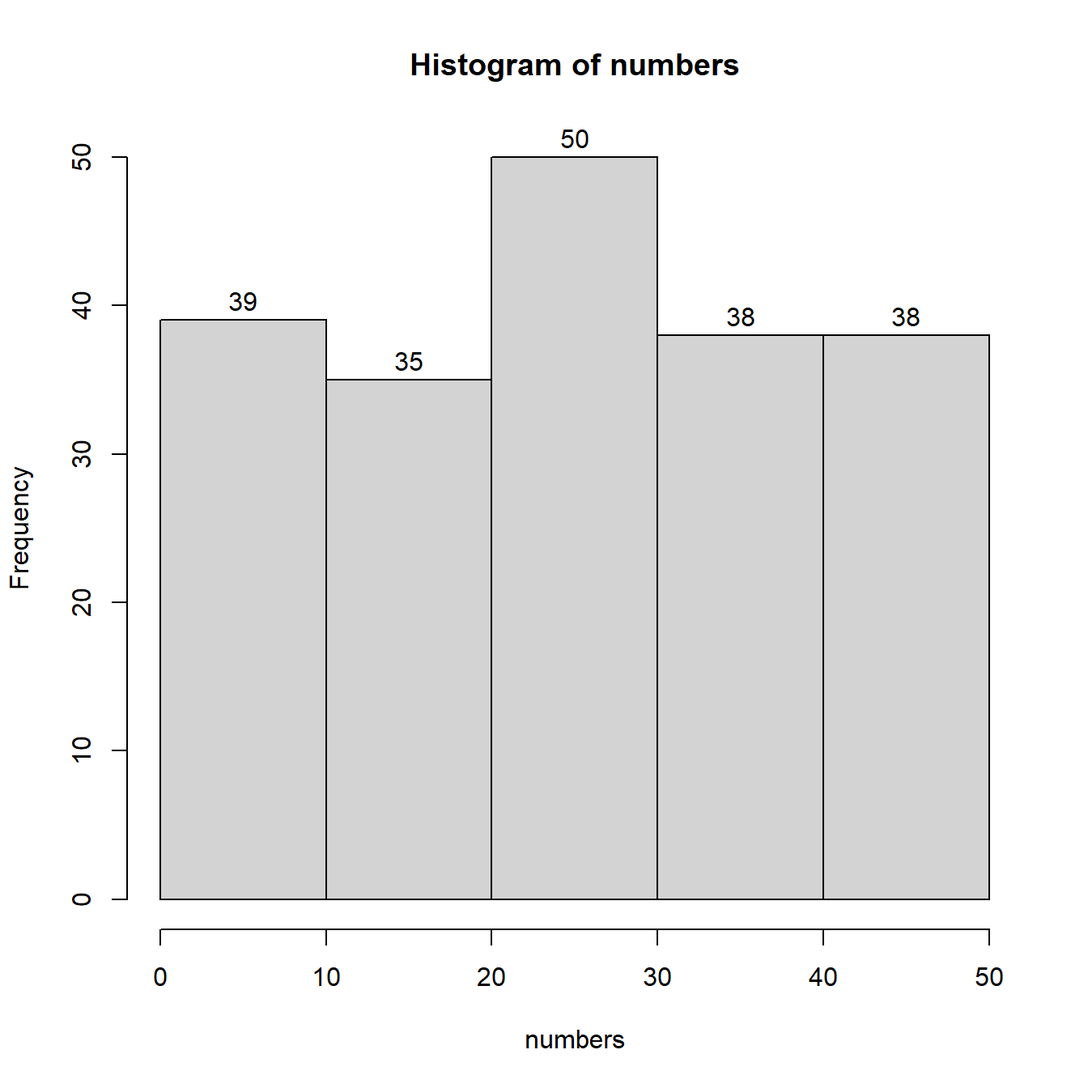
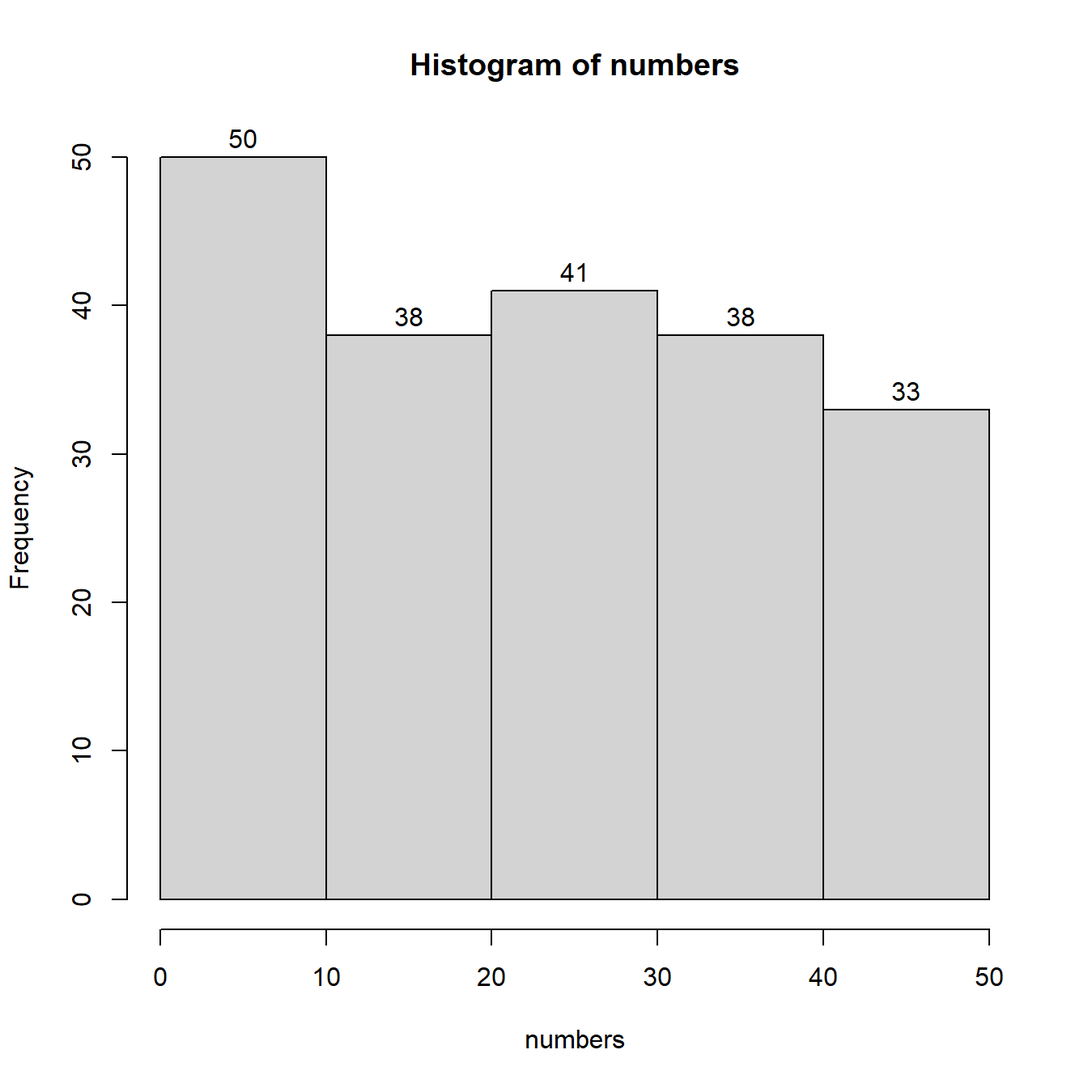
week 8

Changed region(s): [[0.125, 0.125, 0.4688, 0.375], [0.4375, 0.125, 0.625, 0.2812], [0.75, 0.2812, 0.9375, 0.375]]

diff --git a/docs/Week7.html b/docs/Week7.html
@@ -32,7 +32,7 @@
   
   
 <link rel="prev" href="Week6.html"/>
-
+<link rel="next" href="Week8.html"/>
 <script src="libs/header-attrs-2.4/header-attrs.js"></script>
 <script src="libs/jquery-2.2.3/jquery.min.js"></script>
 <link href="libs/gitbook-2.6.7/css/style.css" rel="stylesheet" />
@@ -193,6 +193,11 @@ code span.wa { color: #60a0b0; font-weight: bold; font-style: italic; } /* Warni
 <li class="chapter" data-level="7.5" data-path="Week7.html"><a href="Week7.html#creating-a-new-dataset-and-executing-all-correlations-at-once"><i class="fa fa-check"></i><b>7.5</b> Creating a new dataset and executing all correlations at once</a></li>
 <li class="chapter" data-level="7.6" data-path="Week7.html"><a href="Week7.html#exercise-6"><i class="fa fa-check"></i><b>7.6</b> Exercise</a></li>
 </ul></li>
+<li class="chapter" data-level="8" data-path="Week8.html"><a href="Week8.html"><i class="fa fa-check"></i><b>8</b> Lab Session 6</a>
+<ul>
+<li class="chapter" data-level="8.1" data-path="Week8.html"><a href="Week8.html#learning-objectives-5"><i class="fa fa-check"></i><b>8.1</b> Learning Objectives</a></li>
+<li class="chapter" data-level="8.2" data-path="Week8.html"><a href="Week8.html#to-start-with"><i class="fa fa-check"></i><b>8.2</b> To start with</a></li>
+</ul></li>
 <li class="divider"></li>
 <li><a href="https://github.com/rstudio/bookdown" target="blank">Published with bookdown</a></li>
 
@@ -223,9 +228,9 @@ code span.wa { color: #60a0b0; font-weight: bold; font-style: italic; } /* Warni
 3. Go on moodle on the SP300 page, in Week 6. In the lab section there are two files, <strong>internet.csv</strong> and <strong>exercisew7.csv</strong>. Download both files and save them or copy them in your <strong>Week 7 Lab</strong> folder that is on your desktop. <strong>IF YOU ARE A MAC USER PLEASE USE CHROME AND NOT SAFARI.</strong><br />
 4. If you have done everything right, you should be able to see both files at the mottom right window in your RStudio, if the tab <strong>Files</strong>.<br />
 5. Create a new script and save it as <strong>week7</strong>. Then type in the following commands and run them.</p>
-<div class="sourceCode" id="cb1"><pre class="sourceCode r"><code class="sourceCode r"><span id="cb1-1"><a href="Week7.html#cb1-1"></a><span class="kw">library</span>(tidyverse)</span>
-<span id="cb1-2"><a href="Week7.html#cb1-2"></a><span class="kw">library</span>(correlation)</span>
-<span id="cb1-3"><a href="Week7.html#cb1-3"></a><span class="kw">library</span>(ggpubr)</span></code></pre></div>
+<div class="sourceCode" id="cb55"><pre class="sourceCode r"><code class="sourceCode r"><span id="cb55-1"><a href="Week7.html#cb55-1"></a><span class="kw">library</span>(tidyverse)</span>
+<span id="cb55-2"><a href="Week7.html#cb55-2"></a><span class="kw">library</span>(correlation)</span>
+<span id="cb55-3"><a href="Week7.html#cb55-3"></a><span class="kw">library</span>(ggpubr)</span></code></pre></div>
 <ol start="6" style="list-style-type: decimal">
 <li>If you get any <strong>warning messages</strong> that is fine.<br />
 </li>
@@ -253,11 +258,11 @@ code span.wa { color: #60a0b0; font-weight: bold; font-style: italic; } /* Warni
 <div id="load-our-own-data" class="section level2" number="7.3">
 <h2><span class="header-section-number">7.3</span> Load our own data</h2>
 <p>If you have already followed the steps above you should already have two data files in your folder. These are <strong>internet.csv</strong> and <strong>exercisew7.csv</strong>. We will execute the following script to load <strong>internet.csv</strong> and also get some useful initial summaries. The <strong>internet.csv</strong> contains data from a sudy that measured participants Internet use. If you have already created the <strong>week7 lab</strong> script above then just continue working from there. If not make sure you add the three lines above that contain the libraries.</p>
-<div class="sourceCode" id="cb2"><pre class="sourceCode r"><code class="sourceCode r"><span id="cb2-1"><a href="Week7.html#cb2-1"></a><span class="co">## load the file internet.csv and assign to a dataframe called df</span></span>
-<span id="cb2-2"><a href="Week7.html#cb2-2"></a>df &lt;-<span class="st"> </span><span class="kw">read_csv</span>(<span class="st">&quot;internet.csv&quot;</span>)</span>
-<span id="cb2-3"><a href="Week7.html#cb2-3"></a></span>
-<span id="cb2-4"><a href="Week7.html#cb2-4"></a><span class="co">## Let&#39;s have a quick look at our variables in df</span></span>
-<span id="cb2-5"><a href="Week7.html#cb2-5"></a><span class="kw">summary</span>(df)</span></code></pre></div>
+<div class="sourceCode" id="cb56"><pre class="sourceCode r"><code class="sourceCode r"><span id="cb56-1"><a href="Week7.html#cb56-1"></a><span class="co">## load the file internet.csv and assign to a dataframe called df</span></span>
+<span id="cb56-2"><a href="Week7.html#cb56-2"></a>df &lt;-<span class="st"> </span><span class="kw">read_csv</span>(<span class="st">&quot;internet.csv&quot;</span>)</span>
+<span id="cb56-3"><a href="Week7.html#cb56-3"></a></span>
+<span id="cb56-4"><a href="Week7.html#cb56-4"></a><span class="co">## Let&#39;s have a quick look at our variables in df</span></span>
+<span id="cb56-5"><a href="Week7.html#cb56-5"></a><span class="kw">summary</span>(df)</span></code></pre></div>
 </div>
 <div id="working-with-our-data" class="section level2" number="7.4">
 <h2><span class="header-section-number">7.4</span> Working with our data</h2>
@@ -268,54 +273,54 @@ code span.wa { color: #60a0b0; font-weight: bold; font-style: italic; } /* Warni
 <strong>comf_mean</strong>: mean of comfort1 and comfort2 for each participant.
 <strong>total_hr</strong>: the total amount of hours in a week
 We can achieve the above with many different ways, for this term we will focus on using the function <strong>mutate()</strong>.</p>
-<div class="sourceCode" id="cb3"><pre class="sourceCode r"><code class="sourceCode r"><span id="cb3-1"><a href="Week7.html#cb3-1"></a><span class="co">## when using mutate, we have to declare the dataframe first</span></span>
-<span id="cb3-2"><a href="Week7.html#cb3-2"></a><span class="co">## then give the name of the new variable</span></span>
-<span id="cb3-3"><a href="Week7.html#cb3-3"></a><span class="co">## and then type in the calculation we want to do</span></span>
-<span id="cb3-4"><a href="Week7.html#cb3-4"></a><span class="co">## the mean is nothing else than adding all variables</span></span>
-<span id="cb3-5"><a href="Week7.html#cb3-5"></a><span class="co">## and then dividing by the number of variables</span></span>
-<span id="cb3-6"><a href="Week7.html#cb3-6"></a><span class="co">## </span><span class="al">NOTE</span><span class="co">: you do not have to breat the mutate line in two lines</span></span>
-<span id="cb3-7"><a href="Week7.html#cb3-7"></a><span class="co">## like below, we did that so it fits in the pdf width</span></span>
-<span id="cb3-8"><a href="Week7.html#cb3-8"></a></span>
-<span id="cb3-9"><a href="Week7.html#cb3-9"></a>df &lt;-<span class="st"> </span><span class="kw">mutate</span>(df, </span>
-<span id="cb3-10"><a href="Week7.html#cb3-10"></a>             <span class="dt">use_mean =</span> (use1 <span class="op">+</span><span class="st"> </span>use2 <span class="op">+</span><span class="st"> </span>use3 <span class="op">+</span><span class="st"> </span>use4 <span class="op">+</span><span class="st"> </span>use5 <span class="op">+</span><span class="st"> </span>use6)<span class="op">/</span><span class="dv">6</span>)</span>
-<span id="cb3-11"><a href="Week7.html#cb3-11"></a></span>
-<span id="cb3-12"><a href="Week7.html#cb3-12"></a></span>
-<span id="cb3-13"><a href="Week7.html#cb3-13"></a>df &lt;-<span class="st"> </span><span class="kw">mutate</span>(df, </span>
-<span id="cb3-14"><a href="Week7.html#cb3-14"></a>             <span class="dt">pre_mean =</span> (pre1 <span class="op">+</span><span class="st"> </span>pre2 <span class="op">+</span><span class="st"> </span>pre3 <span class="op">+</span><span class="st"> </span>pre4 <span class="op">+</span><span class="st"> </span>pre5 <span class="op">+</span><span class="st"> </span>pre6)<span class="op">/</span><span class="dv">6</span>)</span>
-<span id="cb3-15"><a href="Week7.html#cb3-15"></a></span>
-<span id="cb3-16"><a href="Week7.html#cb3-16"></a></span>
-<span id="cb3-17"><a href="Week7.html#cb3-17"></a>df &lt;-<span class="st"> </span><span class="kw">mutate</span>(df, </span>
-<span id="cb3-18"><a href="Week7.html#cb3-18"></a>             <span class="dt">comf_mean =</span> (comfort1 <span class="op">+</span><span class="st"> </span>comfort2)<span class="op">/</span><span class="dv">2</span>)</span>
-<span id="cb3-19"><a href="Week7.html#cb3-19"></a></span>
-<span id="cb3-20"><a href="Week7.html#cb3-20"></a><span class="co">## we can also do any other type of arithmetic calculation</span></span>
-<span id="cb3-21"><a href="Week7.html#cb3-21"></a><span class="co">## for example total_hr = days * hours</span></span>
-<span id="cb3-22"><a href="Week7.html#cb3-22"></a>df &lt;-<span class="st"> </span><span class="kw">mutate</span>(df, </span>
-<span id="cb3-23"><a href="Week7.html#cb3-23"></a>             <span class="dt">total_hr =</span> days<span class="op">*</span>hours)</span></code></pre></div>
+<div class="sourceCode" id="cb57"><pre class="sourceCode r"><code class="sourceCode r"><span id="cb57-1"><a href="Week7.html#cb57-1"></a><span class="co">## when using mutate, we have to declare the dataframe first</span></span>
+<span id="cb57-2"><a href="Week7.html#cb57-2"></a><span class="co">## then give the name of the new variable</span></span>
+<span id="cb57-3"><a href="Week7.html#cb57-3"></a><span class="co">## and then type in the calculation we want to do</span></span>
+<span id="cb57-4"><a href="Week7.html#cb57-4"></a><span class="co">## the mean is nothing else than adding all variables</span></span>
+<span id="cb57-5"><a href="Week7.html#cb57-5"></a><span class="co">## and then dividing by the number of variables</span></span>
+<span id="cb57-6"><a href="Week7.html#cb57-6"></a><span class="co">## </span><span class="al">NOTE</span><span class="co">: you do not have to breat the mutate line in two lines</span></span>
+<span id="cb57-7"><a href="Week7.html#cb57-7"></a><span class="co">## like below, we did that so it fits in the pdf width</span></span>
+<span id="cb57-8"><a href="Week7.html#cb57-8"></a></span>
+<span id="cb57-9"><a href="Week7.html#cb57-9"></a>df &lt;-<span class="st"> </span><span class="kw">mutate</span>(df, </span>
+<span id="cb57-10"><a href="Week7.html#cb57-10"></a>             <span class="dt">use_mean =</span> (use1 <span class="op">+</span><span class="st"> </span>use2 <span class="op">+</span><span class="st"> </span>use3 <span class="op">+</span><span class="st"> </span>use4 <span class="op">+</span><span class="st"> </span>use5 <span class="op">+</span><span class="st"> </span>use6)<span class="op">/</span><span class="dv">6</span>)</span>
+<span id="cb57-11"><a href="Week7.html#cb57-11"></a></span>
+<span id="cb57-12"><a href="Week7.html#cb57-12"></a></span>
+<span id="cb57-13"><a href="Week7.html#cb57-13"></a>df &lt;-<span class="st"> </span><span class="kw">mutate</span>(df, </span>
+<span id="cb57-14"><a href="Week7.html#cb57-14"></a>             <span class="dt">pre_mean =</span> (pre1 <span class="op">+</span><span class="st"> </span>pre2 <span class="op">+</span><span class="st"> </span>pre3 <span class="op">+</span><span class="st"> </span>pre4 <span class="op">+</span><span class="st"> </span>pre5 <span class="op">+</span><span class="st"> </span>pre6)<span class="op">/</span><span class="dv">6</span>)</span>
+<span id="cb57-15"><a href="Week7.html#cb57-15"></a></span>
+<span id="cb57-16"><a href="Week7.html#cb57-16"></a></span>
+<span id="cb57-17"><a href="Week7.html#cb57-17"></a>df &lt;-<span class="st"> </span><span class="kw">mutate</span>(df, </span>
+<span id="cb57-18"><a href="Week7.html#cb57-18"></a>             <span class="dt">comf_mean =</span> (comfort1 <span class="op">+</span><span class="st"> </span>comfort2)<span class="op">/</span><span class="dv">2</span>)</span>
+<span id="cb57-19"><a href="Week7.html#cb57-19"></a></span>
+<span id="cb57-20"><a href="Week7.html#cb57-20"></a><span class="co">## we can also do any other type of arithmetic calculation</span></span>
+<span id="cb57-21"><a href="Week7.html#cb57-21"></a><span class="co">## for example total_hr = days * hours</span></span>
+<span id="cb57-22"><a href="Week7.html#cb57-22"></a>df &lt;-<span class="st"> </span><span class="kw">mutate</span>(df, </span>
+<span id="cb57-23"><a href="Week7.html#cb57-23"></a>             <span class="dt">total_hr =</span> days<span class="op">*</span>hours)</span></code></pre></div>
 <p>We can now create simple scatterplots between between our newly created variables. Below, we only give you only one example but try to complete the rest on your own. We can also carry out a correlation analysis between two variables. Again, we give you only one example, you should do the rest on your own during the lab session.</p>
-<div class="sourceCode" id="cb4"><pre class="sourceCode r"><code class="sourceCode r"><span id="cb4-1"><a href="Week7.html#cb4-1"></a><span class="co">## a simple scatterplot between use_mean and pre_mean</span></span>
-<span id="cb4-2"><a href="Week7.html#cb4-2"></a><span class="kw">ggscatter</span>(df, <span class="dt">x =</span> <span class="st">&quot;use_mean&quot;</span>, <span class="dt">y =</span> <span class="st">&quot;pre_mean&quot;</span>)</span>
-<span id="cb4-3"><a href="Week7.html#cb4-3"></a></span>
-<span id="cb4-4"><a href="Week7.html#cb4-4"></a><span class="co">## a simple correlation analysis between </span></span>
-<span id="cb4-5"><a href="Week7.html#cb4-5"></a><span class="kw">cor_test</span>(<span class="dt">data =</span> df, </span>
-<span id="cb4-6"><a href="Week7.html#cb4-6"></a>         <span class="dt">x =</span> <span class="st">&quot;use_mean&quot;</span>, <span class="dt">y =</span> <span class="st">&quot;pre_mean&quot;</span>, <span class="dt">method =</span> <span class="st">&quot;pearson&quot;</span>)</span>
-<span id="cb4-7"><a href="Week7.html#cb4-7"></a></span>
-<span id="cb4-8"><a href="Week7.html#cb4-8"></a><span class="co">## change the code as needed to see output for different pairs of </span></span>
-<span id="cb4-9"><a href="Week7.html#cb4-9"></a><span class="co">## variables. You should have all pairs of Use_mean, pre_mean, comf_mean, ##  and total_hr</span></span></code></pre></div>
+<div class="sourceCode" id="cb58"><pre class="sourceCode r"><code class="sourceCode r"><span id="cb58-1"><a href="Week7.html#cb58-1"></a><span class="co">## a simple scatterplot between use_mean and pre_mean</span></span>
+<span id="cb58-2"><a href="Week7.html#cb58-2"></a><span class="kw">ggscatter</span>(df, <span class="dt">x =</span> <span class="st">&quot;use_mean&quot;</span>, <span class="dt">y =</span> <span class="st">&quot;pre_mean&quot;</span>)</span>
+<span id="cb58-3"><a href="Week7.html#cb58-3"></a></span>
+<span id="cb58-4"><a href="Week7.html#cb58-4"></a><span class="co">## a simple correlation analysis between </span></span>
+<span id="cb58-5"><a href="Week7.html#cb58-5"></a><span class="kw">cor_test</span>(<span class="dt">data =</span> df, </span>
+<span id="cb58-6"><a href="Week7.html#cb58-6"></a>         <span class="dt">x =</span> <span class="st">&quot;use_mean&quot;</span>, <span class="dt">y =</span> <span class="st">&quot;pre_mean&quot;</span>, <span class="dt">method =</span> <span class="st">&quot;pearson&quot;</span>)</span>
+<span id="cb58-7"><a href="Week7.html#cb58-7"></a></span>
+<span id="cb58-8"><a href="Week7.html#cb58-8"></a><span class="co">## change the code as needed to see output for different pairs of </span></span>
+<span id="cb58-9"><a href="Week7.html#cb58-9"></a><span class="co">## variables. You should have all pairs of Use_mean, pre_mean, comf_mean, ##  and total_hr</span></span></code></pre></div>
 </div>
 <div id="creating-a-new-dataset-and-executing-all-correlations-at-once" class="section level2" number="7.5">
 <h2><span class="header-section-number">7.5</span> Creating a new dataset and executing all correlations at once</h2>
 <p>As you have seen above it is quite a lot of work to keep typing the same code for each pair of variables. One way to overcome this is to use the function, correlation(). This function, takes as an input our entire dataframe and runs correlations for all the existing variables. The problem with this approach is that our dataframe may also have variables that we do not want to include. An easy way to fix this would be to create a new dataframe that only contains the variables we need. Then run correlation on the new dataframe. We can do that by using the function select() and declare the variables we want to copy to the new dataframe.</p>
-<div class="sourceCode" id="cb5"><pre class="sourceCode r"><code class="sourceCode r"><span id="cb5-1"><a href="Week7.html#cb5-1"></a><span class="co">## first we declate that our dataframe is df</span></span>
-<span id="cb5-2"><a href="Week7.html#cb5-2"></a><span class="co">## then we declare the variables we want to copy over</span></span>
-<span id="cb5-3"><a href="Week7.html#cb5-3"></a><span class="co">## to the new dataframe which we can give any name we want.</span></span>
-<span id="cb5-4"><a href="Week7.html#cb5-4"></a>df2 &lt;-<span class="st"> </span><span class="kw">select</span>(df, use_mean, pre_mean, comf_mean, total_hr)</span>
-<span id="cb5-5"><a href="Week7.html#cb5-5"></a></span>
-<span id="cb5-6"><a href="Week7.html#cb5-6"></a><span class="kw">summary</span>(df2)</span></code></pre></div>
+<div class="sourceCode" id="cb59"><pre class="sourceCode r"><code class="sourceCode r"><span id="cb59-1"><a href="Week7.html#cb59-1"></a><span class="co">## first we declate that our dataframe is df</span></span>
+<span id="cb59-2"><a href="Week7.html#cb59-2"></a><span class="co">## then we declare the variables we want to copy over</span></span>
+<span id="cb59-3"><a href="Week7.html#cb59-3"></a><span class="co">## to the new dataframe which we can give any name we want.</span></span>
+<span id="cb59-4"><a href="Week7.html#cb59-4"></a>df2 &lt;-<span class="st"> </span><span class="kw">select</span>(df, use_mean, pre_mean, comf_mean, total_hr)</span>
+<span id="cb59-5"><a href="Week7.html#cb59-5"></a></span>
+<span id="cb59-6"><a href="Week7.html#cb59-6"></a><span class="kw">summary</span>(df2)</span></code></pre></div>
 <p>Running the above code would create a new dataframe called **df2*. We can now run all the correlations between our four variables.</p>
-<div class="sourceCode" id="cb6"><pre class="sourceCode r"><code class="sourceCode r"><span id="cb6-1"><a href="Week7.html#cb6-1"></a><span class="co">## all we have to do is declare the dataframe name</span></span>
-<span id="cb6-2"><a href="Week7.html#cb6-2"></a><span class="co">## in the correlation function</span></span>
-<span id="cb6-3"><a href="Week7.html#cb6-3"></a></span>
-<span id="cb6-4"><a href="Week7.html#cb6-4"></a><span class="kw">correlation</span>(<span class="dt">data =</span> df2, <span class="dt">method =</span> <span class="st">&quot;pearson&quot;</span>)</span></code></pre></div>
+<div class="sourceCode" id="cb60"><pre class="sourceCode r"><code class="sourceCode r"><span id="cb60-1"><a href="Week7.html#cb60-1"></a><span class="co">## all we have to do is declare the dataframe name</span></span>
+<span id="cb60-2"><a href="Week7.html#cb60-2"></a><span class="co">## in the correlation function</span></span>
+<span id="cb60-3"><a href="Week7.html#cb60-3"></a></span>
+<span id="cb60-4"><a href="Week7.html#cb60-4"></a><span class="kw">correlation</span>(<span class="dt">data =</span> df2, <span class="dt">method =</span> <span class="st">&quot;pearson&quot;</span>)</span></code></pre></div>
 <p>If you observe the output you will see that we have a row for each pair of variables.</p>
 </div>
 <div id="exercise-6" class="section level2" number="7.6">
@@ -340,8 +345,8 @@ Also, create a new datafile that will only include these four variables and run 
           </div>
         </div>
       </div>
-<a href="Week6.html" class="navigation navigation-prev navigation-unique" aria-label="Previous page"><i class="fa fa-angle-left"></i></a>
-
+<a href="Week6.html" class="navigation navigation-prev " aria-label="Previous page"><i class="fa fa-angle-left"></i></a>
+<a href="Week8.html" class="navigation navigation-next " aria-label="Next page"><i class="fa fa-angle-right"></i></a>
     </div>
   </div>
 <script src="libs/gitbook-2.6.7/js/app.min.js"></script>

diff --git a/docs/Week3.html b/docs/Week3.html
@@ -193,6 +193,11 @@ code span.wa { color: #60a0b0; font-weight: bold; font-style: italic; } /* Warni
 <li class="chapter" data-level="7.5" data-path="Week7.html"><a href="Week7.html#creating-a-new-dataset-and-executing-all-correlations-at-once"><i class="fa fa-check"></i><b>7.5</b> Creating a new dataset and executing all correlations at once</a></li>
 <li class="chapter" data-level="7.6" data-path="Week7.html"><a href="Week7.html#exercise-6"><i class="fa fa-check"></i><b>7.6</b> Exercise</a></li>
 </ul></li>
+<li class="chapter" data-level="8" data-path="Week8.html"><a href="Week8.html"><i class="fa fa-check"></i><b>8</b> Lab Session 6</a>
+<ul>
+<li class="chapter" data-level="8.1" data-path="Week8.html"><a href="Week8.html#learning-objectives-5"><i class="fa fa-check"></i><b>8.1</b> Learning Objectives</a></li>
+<li class="chapter" data-level="8.2" data-path="Week8.html"><a href="Week8.html#to-start-with"><i class="fa fa-check"></i><b>8.2</b> To start with</a></li>
+</ul></li>
 <li class="divider"></li>
 <li><a href="https://github.com/rstudio/bookdown" target="blank">Published with bookdown</a></li>
 
@@ -282,7 +287,7 @@ code span.wa { color: #60a0b0; font-weight: bold; font-style: italic; } /* Warni
 <span id="cb12-3"><a href="Week3.html#cb12-3"></a>numbers &lt;-<span class="st"> </span><span class="kw">sample.int</span>(<span class="dv">10</span>, <span class="dv">5</span>, <span class="dt">replace =</span> <span class="ot">TRUE</span>)</span>
 <span id="cb12-4"><a href="Week3.html#cb12-4"></a></span>
 <span id="cb12-5"><a href="Week3.html#cb12-5"></a>numbers</span></code></pre></div>
-<p>[1] 3 10 2 6 5</p>
+<p>[1] 10 4 2 8 7</p>
 <p>As mentioned above, I used a function called <strong>sample.int()</strong>. A <strong>function</strong> in R, is a mechanism that can perform a task. In this case our function can select an integer number randomly. A function also includes two brackets (). Within these brackets we can specify our own arguments in order to be clear what we want R to do for us when this function is used.</p>
 <p>Notice the number 10, this <strong>argument</strong> instructs our function that we want to pick randomly a number between 1 and 10.</p>
 <p>Notice the second number 5, this <strong>argument</strong> instructs our function to give 5 such numbers from 1 to 10.</p>
@@ -296,14 +301,14 @@ code span.wa { color: #60a0b0; font-weight: bold; font-style: italic; } /* Warni
 <span id="cb13-3"><a href="Week3.html#cb13-3"></a><span class="co"># See how my arguments have now changed.</span></span>
 <span id="cb13-4"><a href="Week3.html#cb13-4"></a>numbers &lt;-<span class="st"> </span><span class="kw">sample.int</span>(<span class="dv">50</span>, <span class="dv">200</span>, <span class="dt">replace =</span> <span class="ot">TRUE</span>)</span>
 <span id="cb13-5"><a href="Week3.html#cb13-5"></a>numbers</span></code></pre></div>
-<p>[1] 14 25 26 27 5 27 28 9 29 35 8 26 7 42 9 19 36 14 17 43 39 12 15 32 42
-[26] 45 7 9 41 10 23 27 7 27 32 38 25 34 29 5 8 12 13 18 33 27 25 38 21 15
-[51] 41 47 26 31 16 30 6 43 8 22 22 39 31 48 17 50 49 34 4 13 5 25 22 25 32
-[76] 46 25 23 35 40 48 30 12 31 46 30 35 14 29 32 7 3 23 15 21 37 8 10 50 42
-[101] 44 34 10 22 12 20 46 17 46 35 40 46 30 15 24 49 23 43 7 29 15 23 26 38 46
-[126] 32 7 27 42 5 6 16 24 32 21 11 36 44 46 19 25 39 26 9 7 34 48 13 19 47
-[151] 39 4 1 40 30 30 25 16 24 11 48 20 40 3 29 36 44 22 49 42 20 11 8 46 21
-[176] 45 2 43 13 46 6 8 44 32 36 45 14 16 23 33 40 40 10 25 8 18 9 7 7 10</p>
+<p>[1] 40 22 49 41 27 24 26 37 47 35 4 2 16 32 15 43 26 32 2 11 12 21 29 18 9
+[26] 8 2 37 43 2 36 26 5 5 45 31 17 48 36 36 32 30 18 10 37 5 44 16 42 2
+[51] 46 38 13 4 15 45 37 9 40 50 32 46 5 50 4 1 40 11 2 18 30 45 39 1 29
+[76] 28 50 6 3 9 41 17 47 23 35 3 36 22 38 28 39 49 20 39 44 32 40 12 3 15
+[101] 45 24 4 26 1 32 34 38 37 23 10 14 6 25 44 25 16 1 26 4 41 43 23 3 42
+[126] 19 18 14 12 11 19 29 26 20 27 21 1 50 21 49 11 34 5 20 4 46 23 36 7 48
+[151] 14 41 39 1 16 16 7 23 8 16 21 31 40 3 12 17 9 37 28 4 21 8 8 10 2
+[176] 9 38 18 24 15 1 24 47 10 8 32 18 34 28 20 8 23 21 30 43 28 48 28 12 23</p>
 <div class="sourceCode" id="cb14"><pre class="sourceCode r"><code class="sourceCode r"><span id="cb14-1"><a href="Week3.html#cb14-1"></a><span class="co"># Now we will call a new function to help us group our data.</span></span>
 <span id="cb14-2"><a href="Week3.html#cb14-2"></a><span class="co"># First put them in 5 groups. The numbers in c() declare the numbers that define each group.</span></span>
 <span id="cb14-3"><a href="Week3.html#cb14-3"></a></span>
@@ -312,7 +317,7 @@ code span.wa { color: #60a0b0; font-weight: bold; font-style: italic; } /* Warni
 <span id="cb14-6"><a href="Week3.html#cb14-6"></a><span class="co"># Now I can produce my frequency table using another function</span></span>
 <span id="cb14-7"><a href="Week3.html#cb14-7"></a><span class="kw">summary</span>(groups)</span></code></pre></div>
 <p>(0,10] (10,20] (20,30] (30,40] (40,50]
-39 35 50 38 38</p>
+50 38 41 38 33</p>
 <div class="sourceCode" id="cb15"><pre class="sourceCode r"><code class="sourceCode r"><span id="cb15-1"><a href="Week3.html#cb15-1"></a><span class="co"># We will now use a new function called hist that creates histograms.</span></span>
 <span id="cb15-2"><a href="Week3.html#cb15-2"></a><span class="co"># Note that this function has to work with the original numbers</span></span>
 <span id="cb15-3"><a href="Week3.html#cb15-3"></a><span class="co"># and not with the groups.</span></span>

diff --git a/docs/Week8.html b/docs/Week8.html
@@ -4,11 +4,11 @@
 
   <meta charset="utf-8" />
   <meta http-equiv="X-UA-Compatible" content="IE=edge" />
-  <title>Week 5 No Session in Week 5 | Kent-Psychology-Statistics-Book.utf8</title>
+  <title>Week 8 Lab Session 6 | Kent-Psychology-Statistics-Book.utf8</title>
   <meta name="description" content="This is a work in progress so make sure you access it online and do not rely on the pdf." />
   <meta name="generator" content="bookdown 0.21 and GitBook 2.6.7" />
 
-  <meta property="og:title" content="Week 5 No Session in Week 5 | Kent-Psychology-Statistics-Book.utf8" />
+  <meta property="og:title" content="Week 8 Lab Session 6 | Kent-Psychology-Statistics-Book.utf8" />
   <meta property="og:type" content="book" />
   
   
@@ -16,7 +16,7 @@
   
 
   <meta name="twitter:card" content="summary" />
-  <meta name="twitter:title" content="Week 5 No Session in Week 5 | Kent-Psychology-Statistics-Book.utf8" />
+  <meta name="twitter:title" content="Week 8 Lab Session 6 | Kent-Psychology-Statistics-Book.utf8" />
   
   <meta name="twitter:description" content="This is a work in progress so make sure you access it online and do not rely on the pdf." />
   
@@ -31,8 +31,8 @@
   <meta name="apple-mobile-web-app-status-bar-style" content="black" />
   
   
-<link rel="prev" href="Week4.html"/>
-<link rel="next" href="Week6.html"/>
+<link rel="prev" href="Week7.html"/>
+
 <script src="libs/header-attrs-2.4/header-attrs.js"></script>
 <script src="libs/jquery-2.2.3/jquery.min.js"></script>
 <link href="libs/gitbook-2.6.7/css/style.css" rel="stylesheet" />
@@ -218,17 +218,33 @@ code span.wa { color: #60a0b0; font-weight: bold; font-style: italic; } /* Warni
           <div class="page-inner">
 
             <section class="normal" id="section-">
-<div id="Week5" class="section level1" number="5">
-<h1><span class="header-section-number">Week 5</span> No Session in Week 5</h1>
+<div id="Week8" class="section level1" number="8">
+<h1><span class="header-section-number">Week 8</span> Lab Session 6</h1>
+<div id="learning-objectives-5" class="section level2" number="8.1">
+<h2><span class="header-section-number">8.1</span> Learning Objectives</h2>
+<p>In this week’s session we will be focusing on working with existing code and fixing mistakes as we go along.
+This is a crucial lab session and you should do your best to work on your own. You can very briefly chat with your lab mates but try to ask for minimal help from our teaching assistants, not at all if possible. We will go through the answer tomorrow in the Drop-In session.</p>
+</div>
+<div id="to-start-with" class="section level2" number="8.2">
+<h2><span class="header-section-number">8.2</span> To start with</h2>
+<p>First, start RStudio and create a new project. Your project should be named “Week 8 lab”</p>
+<p>Go on moodle in week 8 in the lab session and download two files.<br />
+1. “many many many errors.csv”<br />
+2. “many many many errors.R”</p>
+<p>Make sure you save both files in the folder you just created for your new project.<br />
+Once you have that then load the R script and start working through the instructions that are included in the script as comments.
+In order to load the script go to File &gt; Open File then select the “many many many errors.R” file and click on Open.</p>
+<p>As you work through the file, keep an eye for typing mistakes, packages that we have not loaded, variables that are mistyped, dataframes that are not declared. Also, functions that do not give you an error but do not do what you want if you do not typed them correctly (remember mode vs Mode a few weeks ago).</p>
 
+</div>
 </div>
             </section>
 
           </div>
         </div>
       </div>
-<a href="Week4.html" class="navigation navigation-prev " aria-label="Previous page"><i class="fa fa-angle-left"></i></a>
-<a href="Week6.html" class="navigation navigation-next " aria-label="Next page"><i class="fa fa-angle-right"></i></a>
+<a href="Week7.html" class="navigation navigation-prev navigation-unique" aria-label="Previous page"><i class="fa fa-angle-left"></i></a>
+
     </div>
   </div>
 <script src="libs/gitbook-2.6.7/js/app.min.js"></script>

diff --git a/docs/Week6.html b/docs/Week6.html
@@ -193,6 +193,11 @@ code span.wa { color: #60a0b0; font-weight: bold; font-style: italic; } /* Warni
 <li class="chapter" data-level="7.5" data-path="Week7.html"><a href="Week7.html#creating-a-new-dataset-and-executing-all-correlations-at-once"><i class="fa fa-check"></i><b>7.5</b> Creating a new dataset and executing all correlations at once</a></li>
 <li class="chapter" data-level="7.6" data-path="Week7.html"><a href="Week7.html#exercise-6"><i class="fa fa-check"></i><b>7.6</b> Exercise</a></li>
 </ul></li>
+<li class="chapter" data-level="8" data-path="Week8.html"><a href="Week8.html"><i class="fa fa-check"></i><b>8</b> Lab Session 6</a>
+<ul>
+<li class="chapter" data-level="8.1" data-path="Week8.html"><a href="Week8.html#learning-objectives-5"><i class="fa fa-check"></i><b>8.1</b> Learning Objectives</a></li>
+<li class="chapter" data-level="8.2" data-path="Week8.html"><a href="Week8.html#to-start-with"><i class="fa fa-check"></i><b>8.2</b> To start with</a></li>
+</ul></li>
 <li class="divider"></li>
 <li><a href="https://github.com/rstudio/bookdown" target="blank">Published with bookdown</a></li>
 
@@ -249,12 +254,12 @@ Even though this dataset is not the result of Psychological research it does hav
 <h2><span class="header-section-number">6.4</span> Range, Interquartile Range, Median, and Relevant Plots</h2>
 <p>In your new script type and run the following:</p>
 <div class="sourceCode" id="cb32"><pre class="sourceCode r"><code class="sourceCode r"><span id="cb32-1"><a href="Week6.html#cb32-1"></a><span class="kw">library</span>(tidyverse)</span></code></pre></div>
-<pre><code>## -- Attaching packages --------------------------------- tidyverse 1.3.0 --</code></pre>
+<pre><code>## -- Attaching packages ----------------------------- tidyverse 1.3.0 --</code></pre>
 <pre><code>## v ggplot2 3.3.2     v purrr   0.3.4
 ## v tibble  3.0.4     v dplyr   1.0.0
 ## v tidyr   1.1.0     v stringr 1.4.0
 ## v readr   1.3.1     v forcats 0.5.0</code></pre>
-<pre><code>## -- Conflicts ------------------------------------ tidyverse_conflicts() --
+<pre><code>## -- Conflicts -------------------------------- tidyverse_conflicts() --
 ## x dplyr::filter() masks stats::filter()
 ## x dplyr::lag()    masks stats::lag()</code></pre>
 <div class="sourceCode" id="cb36"><pre class="sourceCode r"><code class="sourceCode r"><span id="cb36-1"><a href="Week6.html#cb36-1"></a><span class="kw">library</span>(ggpubr)</span>

diff --git a/docs/Week2.html b/docs/Week2.html
@@ -193,6 +193,11 @@ code span.wa { color: #60a0b0; font-weight: bold; font-style: italic; } /* Warni
 <li class="chapter" data-level="7.5" data-path="Week7.html"><a href="Week7.html#creating-a-new-dataset-and-executing-all-correlations-at-once"><i class="fa fa-check"></i><b>7.5</b> Creating a new dataset and executing all correlations at once</a></li>
 <li class="chapter" data-level="7.6" data-path="Week7.html"><a href="Week7.html#exercise-6"><i class="fa fa-check"></i><b>7.6</b> Exercise</a></li>
 </ul></li>
+<li class="chapter" data-level="8" data-path="Week8.html"><a href="Week8.html"><i class="fa fa-check"></i><b>8</b> Lab Session 6</a>
+<ul>
+<li class="chapter" data-level="8.1" data-path="Week8.html"><a href="Week8.html#learning-objectives-5"><i class="fa fa-check"></i><b>8.1</b> Learning Objectives</a></li>
+<li class="chapter" data-level="8.2" data-path="Week8.html"><a href="Week8.html#to-start-with"><i class="fa fa-check"></i><b>8.2</b> To start with</a></li>
+</ul></li>
 <li class="divider"></li>
 <li><a href="https://github.com/rstudio/bookdown" target="blank">Published with bookdown</a></li>
 

diff --git a/docs/Week4.html b/docs/Week4.html
@@ -193,6 +193,11 @@ code span.wa { color: #60a0b0; font-weight: bold; font-style: italic; } /* Warni
 <li class="chapter" data-level="7.5" data-path="Week7.html"><a href="Week7.html#creating-a-new-dataset-and-executing-all-correlations-at-once"><i class="fa fa-check"></i><b>7.5</b> Creating a new dataset and executing all correlations at once</a></li>
 <li class="chapter" data-level="7.6" data-path="Week7.html"><a href="Week7.html#exercise-6"><i class="fa fa-check"></i><b>7.6</b> Exercise</a></li>
 </ul></li>
+<li class="chapter" data-level="8" data-path="Week8.html"><a href="Week8.html"><i class="fa fa-check"></i><b>8</b> Lab Session 6</a>
+<ul>
+<li class="chapter" data-level="8.1" data-path="Week8.html"><a href="Week8.html#learning-objectives-5"><i class="fa fa-check"></i><b>8.1</b> Learning Objectives</a></li>
+<li class="chapter" data-level="8.2" data-path="Week8.html"><a href="Week8.html#to-start-with"><i class="fa fa-check"></i><b>8.2</b> To start with</a></li>
+</ul></li>
 <li class="divider"></li>
 <li><a href="https://github.com/rstudio/bookdown" target="blank">Published with bookdown</a></li>
 

diff --git a/docs/index.html b/docs/index.html
@@ -193,6 +193,11 @@ code span.wa { color: #60a0b0; font-weight: bold; font-style: italic; } /* Warni
 <li class="chapter" data-level="7.5" data-path="Week7.html"><a href="Week7.html#creating-a-new-dataset-and-executing-all-correlations-at-once"><i class="fa fa-check"></i><b>7.5</b> Creating a new dataset and executing all correlations at once</a></li>
 <li class="chapter" data-level="7.6" data-path="Week7.html"><a href="Week7.html#exercise-6"><i class="fa fa-check"></i><b>7.6</b> Exercise</a></li>
 </ul></li>
+<li class="chapter" data-level="8" data-path="Week8.html"><a href="Week8.html"><i class="fa fa-check"></i><b>8</b> Lab Session 6</a>
+<ul>
+<li class="chapter" data-level="8.1" data-path="Week8.html"><a href="Week8.html#learning-objectives-5"><i class="fa fa-check"></i><b>8.1</b> Learning Objectives</a></li>
+<li class="chapter" data-level="8.2" data-path="Week8.html"><a href="Week8.html#to-start-with"><i class="fa fa-check"></i><b>8.2</b> To start with</a></li>
+</ul></li>
 <li class="divider"></li>
 <li><a href="https://github.com/rstudio/bookdown" target="blank">Published with bookdown</a></li>
 
